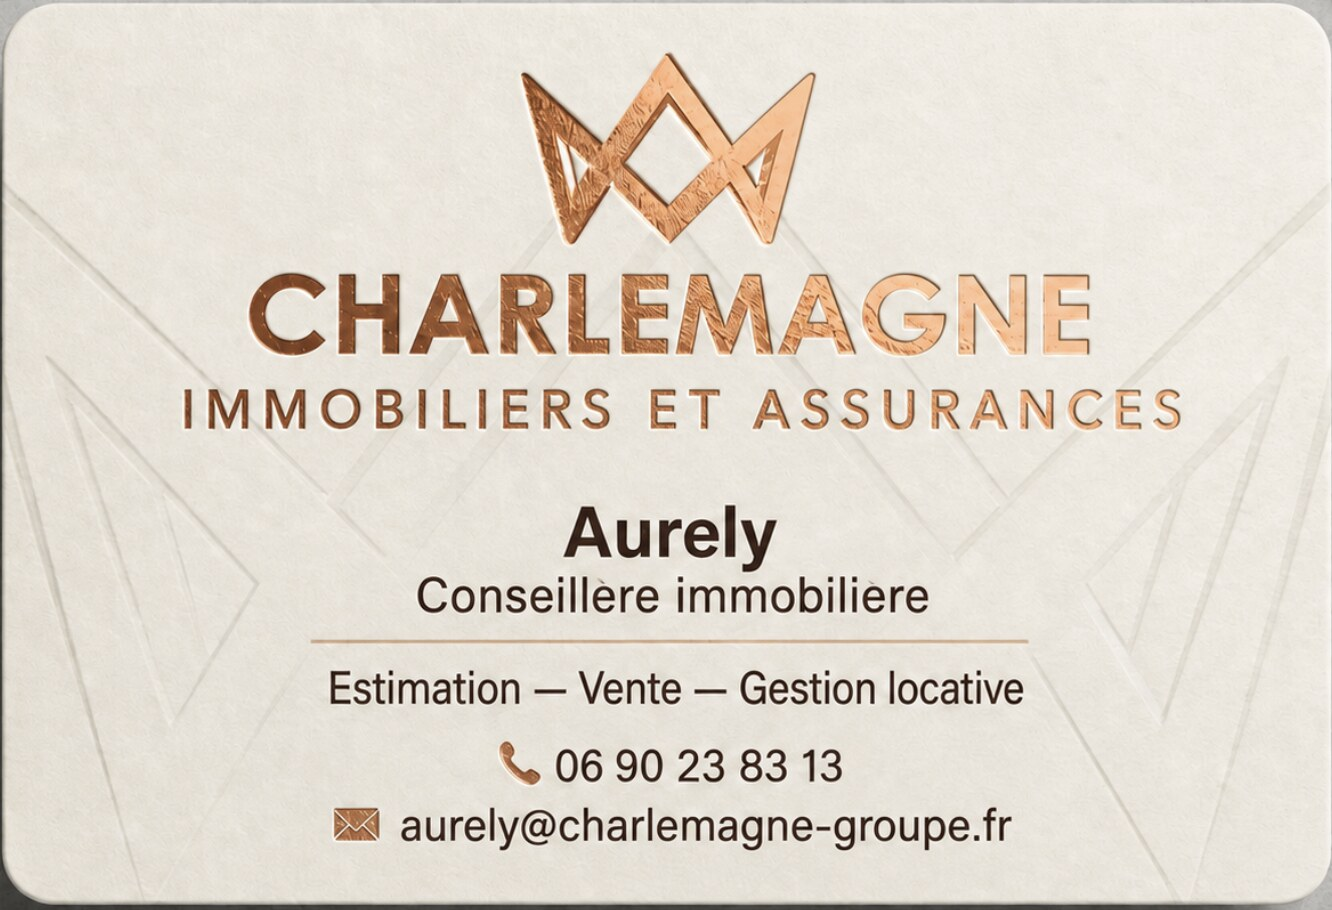
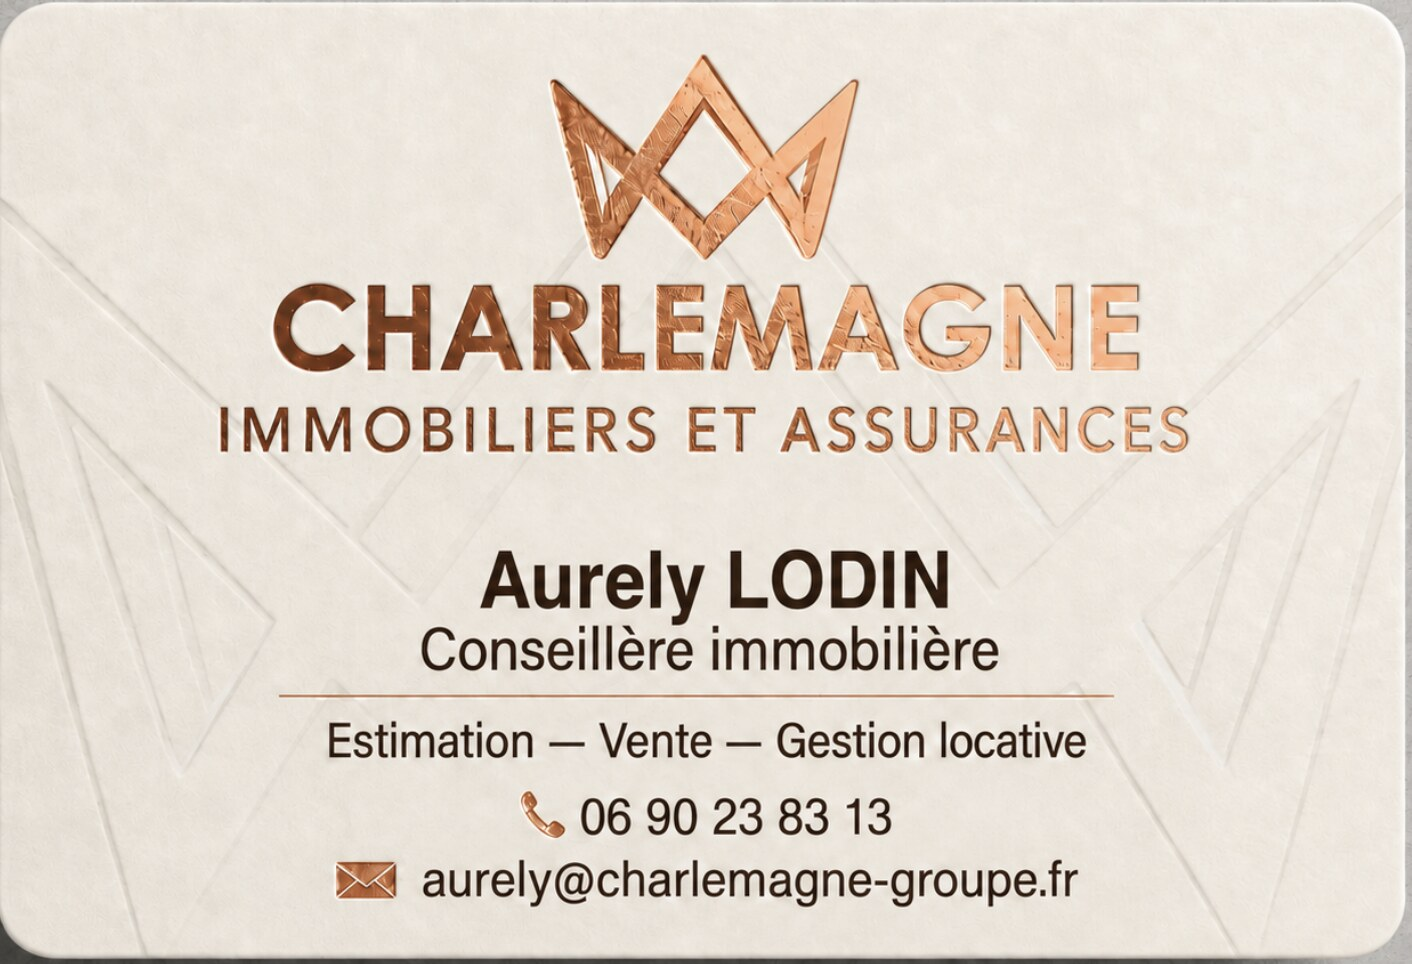
feat(aurely): nom LODIN + nouveau visuel carte (page, vCard, accueil)

diff --git a/static/immobilier/aurely/index.html b/static/immobilier/aurely/index.html
@@ -3,8 +3,8 @@
 <head>
 <meta charset="utf-8">
 <meta name="viewport" content="width=device-width, initial-scale=1, viewport-fit=cover">
-<title>Aurely — Charlemagne Immobiliers et Assurances</title>
-<meta name="description" content="Aurely, conseillère immobilière en Guadeloupe — Charlemagne Immobiliers et Assurances. Estimation, vente, gestion locative.">
+<title>Aurely LODIN — Charlemagne Immobiliers et Assurances</title>
+<meta name="description" content="Aurely LODIN, conseillère immobilière en Guadeloupe — Charlemagne Immobiliers et Assurances. Estimation, vente, gestion locative.">
 <meta name="theme-color" content="#f7f1e8">
 
 <link rel="canonical" href="https://immobilier.charlemagne-groupe.fr/aurely">
@@ -12,19 +12,19 @@
 <meta property="og:type" content="profile">
 <meta property="og:site_name" content="Charlemagne Groupe">
 <meta property="og:locale" content="fr_FR">
-<meta property="og:title" content="Aurely — Charlemagne Immobiliers et Assurances">
+<meta property="og:title" content="Aurely LODIN — Charlemagne Immobiliers et Assurances">
 <meta property="og:description" content="Conseillère immobilière en Guadeloupe. Estimation, vente, gestion locative. Appelez-moi ou enregistrez mes coordonnées.">
 <meta property="og:url" content="https://immobilier.charlemagne-groupe.fr/aurely">
-<meta property="og:image" content="https://immobilier.charlemagne-groupe.fr/assets/immobilier/aurely/carte-recto.jpg?v=2">
+<meta property="og:image" content="https://immobilier.charlemagne-groupe.fr/assets/immobilier/aurely/carte-recto.jpg?v=3">
 <meta property="og:image:type" content="image/jpeg">
-<meta property="og:image:width" content="1332">
-<meta property="og:image:height" content="910">
-<meta property="og:image:alt" content="Carte de visite d’Aurely, Charlemagne Immobiliers et Assurances">
+<meta property="og:image:width" content="1412">
+<meta property="og:image:height" content="964">
+<meta property="og:image:alt" content="Carte de visite d’Aurely LODIN, Charlemagne Immobiliers et Assurances">
 
 <meta name="twitter:card" content="summary_large_image">
-<meta name="twitter:title" content="Aurely — Charlemagne Immobiliers et Assurances">
+<meta name="twitter:title" content="Aurely LODIN — Charlemagne Immobiliers et Assurances">
 <meta name="twitter:description" content="Conseillère immobilière en Guadeloupe. Estimation, vente, gestion locative.">
-<meta name="twitter:image" content="https://immobilier.charlemagne-groupe.fr/assets/immobilier/aurely/carte-recto.jpg?v=2">
+<meta name="twitter:image" content="https://immobilier.charlemagne-groupe.fr/assets/immobilier/aurely/carte-recto.jpg?v=3">
 
 <link rel="preconnect" href="https://fonts.googleapis.com">
 <link rel="preconnect" href="https://fonts.gstatic.com" crossorigin>
@@ -72,9 +72,9 @@
     box-shadow:var(--shadow);
     background:var(--paper);
     border:1px solid var(--line);
-    /* Ratio de la photo du recto (1332 x 910) : la carte est cadrée
+    /* Ratio de la photo du recto (1412 x 964) : la carte est cadrée
        exactement, sans rognage du bas (téléphone et e-mail). */
-    aspect-ratio:1332 / 910;
+    aspect-ratio:1412 / 964;
   }
   .card-visual img{
     display:block;
@@ -234,12 +234,12 @@
 <main class="page">
 
   <div class="card-visual" id="cardVisual">
-    <img src="/assets/immobilier/aurely/carte-recto.jpg?v=2"
-         alt="Carte de visite d’Aurely — Charlemagne Immobiliers et Assurances"
-         width="1332" height="910" onerror="document.getElementById('cardVisual').classList.add('is-fallback')">
+    <img src="/assets/immobilier/aurely/carte-recto.jpg?v=3"
+         alt="Carte de visite d’Aurely LODIN — Charlemagne Immobiliers et Assurances"
+         width="1412" height="964" onerror="document.getElementById('cardVisual').classList.add('is-fallback')">
     <div class="card-fallback" aria-hidden="true">
       <p class="fb-brand">Charlemagne Immobiliers et Assurances</p>
-      <p class="fb-name">Aurely</p>
+      <p class="fb-name">Aurely LODIN</p>
       <span class="fb-rule"></span>
       <p class="fb-role">Conseillère immobilière</p>
     </div>
@@ -247,14 +247,14 @@
 
   <div class="avatar">
     <img src="/assets/immobilier/aurely/portrait-square.jpg?v=2"
-         alt="Portrait d’Aurely"
+         alt="Portrait d’Aurely LODIN"
          width="320" height="320" loading="lazy"
          onerror="this.closest('.avatar').style.display='none'">
   </div>
 
   <header class="identity">
     <p class="eyebrow">Charlemagne Immobiliers et Assurances</p>
-    <h1>Aurely</h1>
+    <h1>Aurely <span class="surname">LODIN</span></h1>
     <p class="role">Conseillère immobilière</p>
     <hr class="rule">
     <ul class="services">
@@ -264,9 +264,9 @@
     </ul>
   </header>
 
-  <nav class="actions" aria-label="Prendre contact avec Aurely">
+  <nav class="actions" aria-label="Prendre contact avec Aurely LODIN">
 
-    <a class="btn btn--primary" href="tel:+590690238313" aria-label="Appeler Aurely au 06 90 23 83 13">
+    <a class="btn btn--primary" href="tel:+590690238313" aria-label="Appeler Aurely LODIN au 06 90 23 83 13">
       <span class="ico" aria-hidden="true">
         <svg viewBox="0 0 24 24"><path d="M22 16.9v3a2 2 0 0 1-2.2 2 19.8 19.8 0 0 1-8.6-3.1 19.5 19.5 0 0 1-6-6A19.8 19.8 0 0 1 2.1 4.2 2 2 0 0 1 4.1 2h3a2 2 0 0 1 2 1.7c.1 1 .4 1.9.7 2.8a2 2 0 0 1-.4 2.1L8.1 9.9a16 16 0 0 0 6 6l1.3-1.3a2 2 0 0 1 2.1-.5c.9.4 1.8.6 2.8.7a2 2 0 0 1 1.7 2Z"/></svg>
       </span>
@@ -274,7 +274,7 @@
     </a>
 
     <a class="btn" href="https://wa.me/590690238313" target="_blank" rel="noopener"
-       aria-label="Écrire à Aurely sur WhatsApp">
+       aria-label="Écrire à Aurely LODIN sur WhatsApp">
       <span class="ico" aria-hidden="true">
         <svg viewBox="0 0 24 24"><path d="M21 11.5a8.4 8.4 0 0 1-12.6 7.3L3 20.5l1.8-5.3A8.4 8.4 0 1 1 21 11.5Z"/><path d="M8.6 9c.2 1.6 1.1 3 2.4 4 1 .7 2 1.1 3.2 1.3l.9-1.3 1.7.8-.4 1.4c-1.9.4-3.9-.3-5.5-1.5-1.6-1.3-2.7-3.1-3-5l1.3-.6.9 1.6L8.6 9Z"/></svg>
       </span>
@@ -289,8 +289,8 @@
       <span class="txt"><b>Envoyer un e-mail</b><small>aurely@charlemagne-groupe.fr</small></span>
     </a>
 
-    <a class="btn" href="/immobilier/aurely/aurely.vcf" download="aurely.vcf" type="text/vcard"
-       aria-label="Enregistrer les coordonnées d’Aurely dans vos contacts">
+    <a class="btn" href="/immobilier/aurely/aurely.vcf" download="aurely-lodin.vcf" type="text/vcard"
+       aria-label="Enregistrer les coordonnées d’Aurely LODIN dans vos contacts">
       <span class="ico" aria-hidden="true">
         <svg viewBox="0 0 24 24"><path d="M12 3v11"/><path d="m7.5 10 4.5 4 4.5-4"/><path d="M4 17v2.5A1.5 1.5 0 0 0 5.5 21h13a1.5 1.5 0 0 0 1.5-1.5V17"/></svg>
       </span>
@@ -322,8 +322,8 @@
   var timer = null;
 
   var payload = {
-    title: 'Aurely — Charlemagne Immobiliers et Assurances',
-    text: 'Aurely, conseillère immobilière en Guadeloupe. Estimation, vente, gestion locative.',
+    title: 'Aurely LODIN — Charlemagne Immobiliers et Assurances',
+    text: 'Aurely LODIN, conseillère immobilière en Guadeloupe. Estimation, vente, gestion locative.',
     url: window.location.href
   };
 

diff --git a/static/index.html b/static/index.html
@@ -127,9 +127,9 @@
     </li>
     <li>
       <a class="card-link" href="/immobilier/aurely">
-        <span class="initials" aria-hidden="true">A</span>
+        <span class="initials" aria-hidden="true">AL</span>
         <span class="who">
-          <b>Aurely</b>
+          <b>Aurely LODIN</b>
           <span class="role">Conseillère immobilière</span>
           <span class="brand">Charlemagne Immobiliers et Assurances</span>
         </span>
